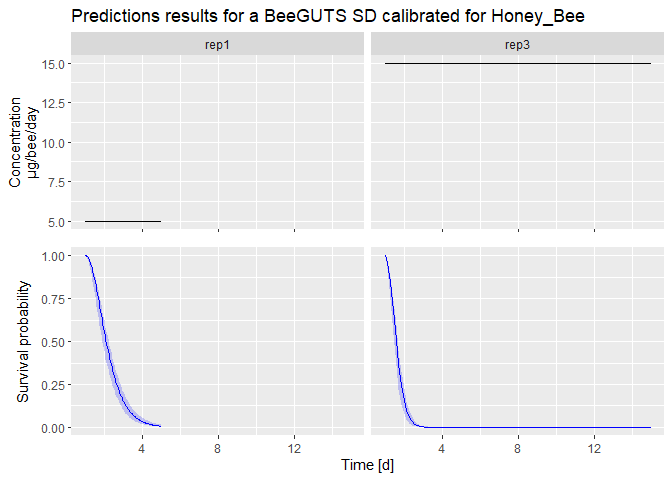
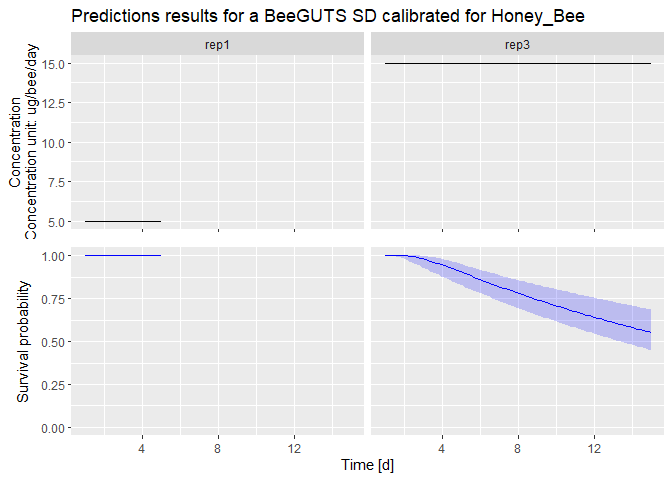
Update tutorial and version number

diff --git a/README.md b/README.md
@@ -40,7 +40,7 @@ This is a basic example which shows you how to solve a common problem:
 
 ``` r
 library(BeeGUTS)
-#> BeeGUTS (Version 1.1.0, packaged on the: )
+#> BeeGUTS (Version 1.1.1, packaged on the: )
 #> - For execution on a local, multicore CPU with excess RAM we recommend calling
 #>       options(mc.cores = parallel::detectCores()-1)
 #> - In addition to the functions provided by 'BeeGUTS', we recommend using the packages:
@@ -49,7 +49,7 @@ library(BeeGUTS)
 #>        importance sampling (PSIS), comparison of predictive errors between models, and
 #>        widely applicable information criterion (WAIC).
 file_location <- system.file("extdata", "betacyfluthrin_chronic_ug.txt", package = "BeeGUTS") # Load the path to one of the example file
-lsData <- dataGUTS(file_location = file_location, test_type = 'Chronic_Oral') # Read the example file
+lsData <- dataGUTS(file_location = file_location, test_type = 'Chronic_Oral', cstConcCal = FALSE) # Read the example file
 plot(lsData) # Plot the data
 #> [[1]]
 ```
@@ -57,13 +57,13 @@ plot(lsData) # Plot the data
 <img src="man/figures/README-example-1.png" width="100%" />
 
 ``` r
-fit <- fitBeeGUTS(lsData, modelType = "SD", nIter = 2000) # Fit a SD model. This can take some time...
+fit <- fitBeeGUTS(lsData, modelType = "SD", nIter = 3000) # Fit a SD model. This can take some time...
 #> Warning: Bulk Effective Samples Size (ESS) is too low, indicating posterior means and medians may be unreliable.
 #> Running the chains for more iterations may help. See
-#> https://mc-stan.org/misc/warnings.html#bulk-ess
+#> http://mc-stan.org/misc/warnings.html#bulk-ess
 #> Warning: Tail Effective Samples Size (ESS) is too low, indicating posterior variances and tail quantiles may be unreliable.
 #> Running the chains for more iterations may help. See
-#> https://mc-stan.org/misc/warnings.html#tail-ess
+#> http://mc-stan.org/misc/warnings.html#tail-ess
 traceplot(fit) # Produce a diagnostic plot of the fit
 ```
 
@@ -85,8 +85,8 @@ summary(fit) # Gives a summary of the results
 #>  Bee species: Honey_Bee 
 #> 
 #>  MCMC sampling setup (select with '$setupMCMC')
-#>  Iterations: 2000 
-#>  Warmup iterations: 1000 
+#>  Iterations: 3000 
+#>  Warmup iterations: 1500 
 #>  Thinning interval: 1 
 #>  Number of chains: 3
 #> 
@@ -95,22 +95,22 @@ summary(fit) # Gives a summary of the results
 #>  parameters      median        Q2.5       Q97.5
 #>          hb 8.32763e-03 1.09309e-04 6.34432e-01
 #>          kd 2.62826e-03 1.17073e-06 5.90041e+00
-#>          zw 1.30384e-03 1.15441e-06 1.47261e+00
-#>          bw 7.36245e-02 6.78843e-05 7.98500e+01
+#>          zw 8.24621e-03 1.19783e-06 5.67693e+01
+#>          bw 1.84061e-03 1.69711e-06 1.99625e+00
 #> 
 #> Posteriors of the parameters (quantiles) (select with '$Qposteriors'):
 #> 
+#>  parameters      median        Q2.5      Q97.5
+#>       hb[1] 6.88457e-03 3.48433e-03 1.0463e-02
 #>  parameters      median        Q2.5       Q97.5
-#>       hb[1] 6.93314e-03 3.08725e-03 1.04814e-02
-#>  parameters      median        Q2.5       Q97.5
-#>          kd 9.97843e-01 7.23590e-01 2.06939e+00
-#>          zw 2.37124e-01 1.43607e-01 2.79624e-01
-#>          bw 3.55765e-01 2.57360e-01 4.46323e-01
+#>          kd 1.00987e+00 7.25197e-01 1.90307e+00
+#>          zw 9.46786e+00 5.96611e+00 1.12689e+01
+#>          bw 8.92361e-03 6.57105e-03 1.10876e-02
 #> 
 #> 
-#>  Maximum Rhat computed (na.rm = TRUE): 1.045232 
-#>  Minimum Bulk_ESS: 181 
-#>  Minimum Tail_ESS: 104 
+#>  Maximum Rhat computed (na.rm = TRUE): 1.02032 
+#>  Minimum Bulk_ESS: 261 
+#>  Minimum Tail_ESS: 124 
 #>  Bulk_ESS and Tail_ESS are crude measures of effecting sampling size for
 #>       bulk and tail quantities respectively. An ESS > 100 per chain can be
 #>       considered as a good indicator. Rhat is an indicator of chains convergence.

diff --git a/NEWS.md b/NEWS.md
@@ -1,3 +1,8 @@
+# Version 1.1.1
+* Correction of the default value for parameter k_sr for _Honey Bee_.
+* Update of the Tutorial
+
+
 # Version 1.1.0
 ## New features
 * Added new species. It is now possible to use the package for _Honey Bee_, 
